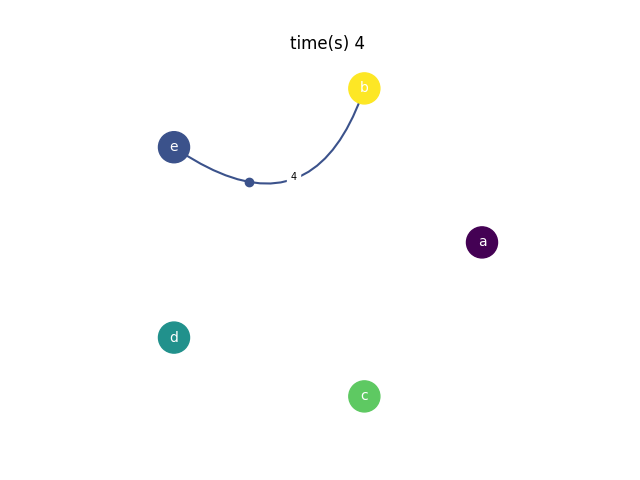
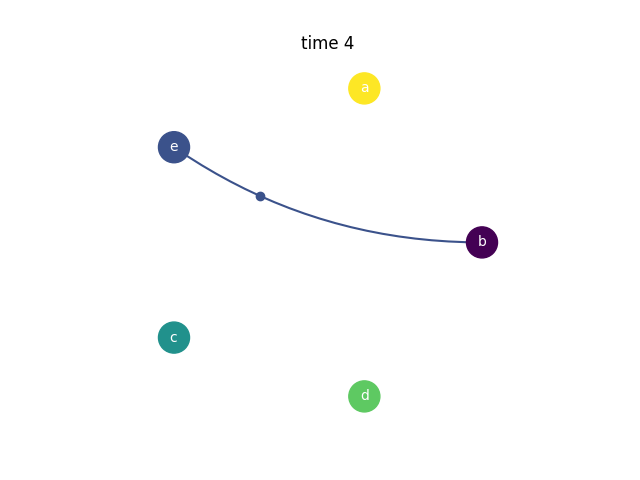
updated examples

diff --git a/OVERTIME/plot_gif_example.py b/OVERTIME/plot_gif_example.py
@@ -12,16 +12,14 @@ input_data = CSVInput('network', 'csv', './network.csv')
 graph = TemporalGraph('TestNetwork', input_data)
 graph.print()
 
-figure, axes = plt.subplots(1)
-Circle(graph, axes)
+labels = []
+for t in graph.edges.timespan():
+    figure, axes = plt.subplots(1)
+    labels.append('time_' + str(t) + '.png')
+    Circle(graph.get_graph_by_time(t), axes, t)
+    figure.savefig(labels[-1], format='png')
 
-figure, axes = plt.subplots(nrows=2, ncols=2)
-foremost_a = CalculateForemostTree(graph, 'a')
-Circle(foremost_a.tree, axes[0][0])
-
-foremost_c = CalculateForemostTree(graph, 'c')
-Circle(foremost_c.tree, axes[0][1])
-
-plt.show()
+images = [imageio.imread(f) for f in labels]
+imageio.mimsave('network.gif', images, duration=2)
 
 input("Press enter key to exit...")
